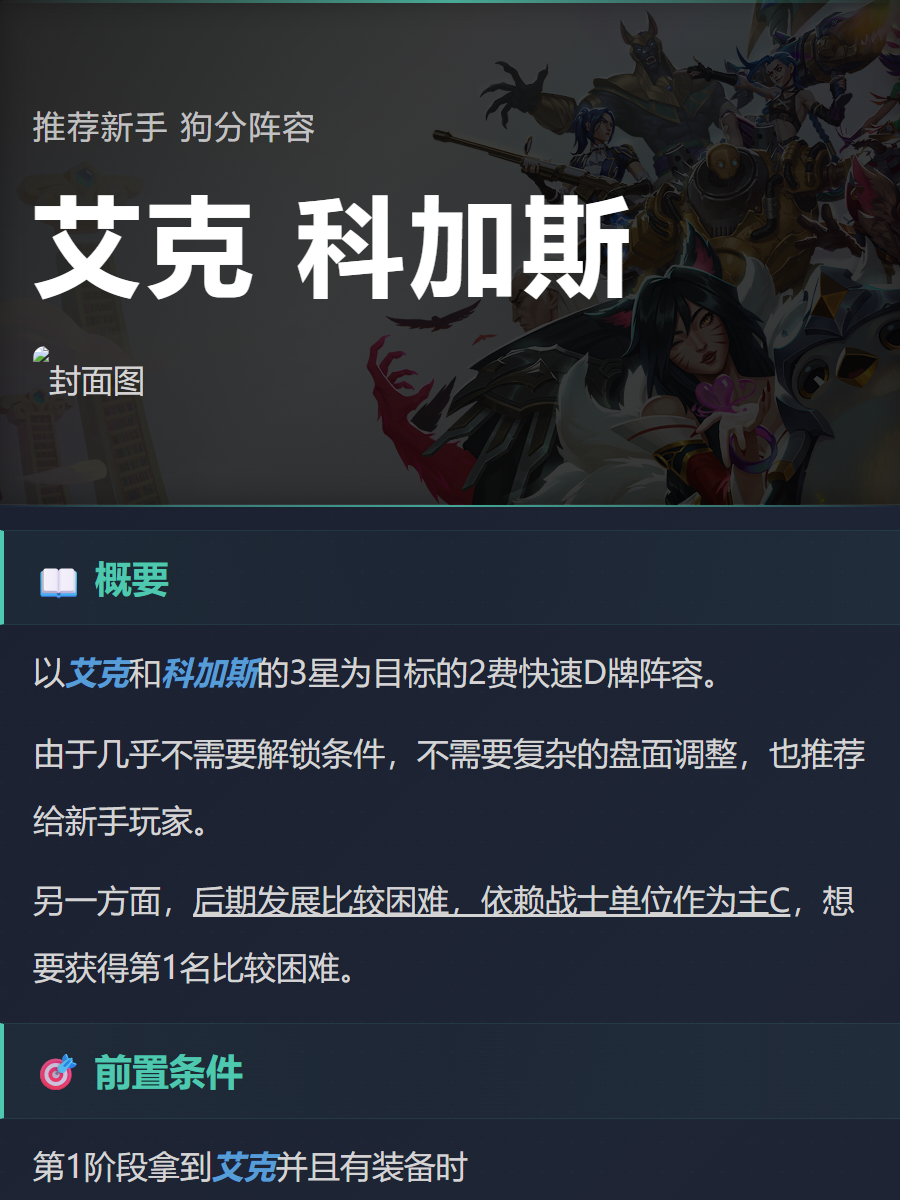
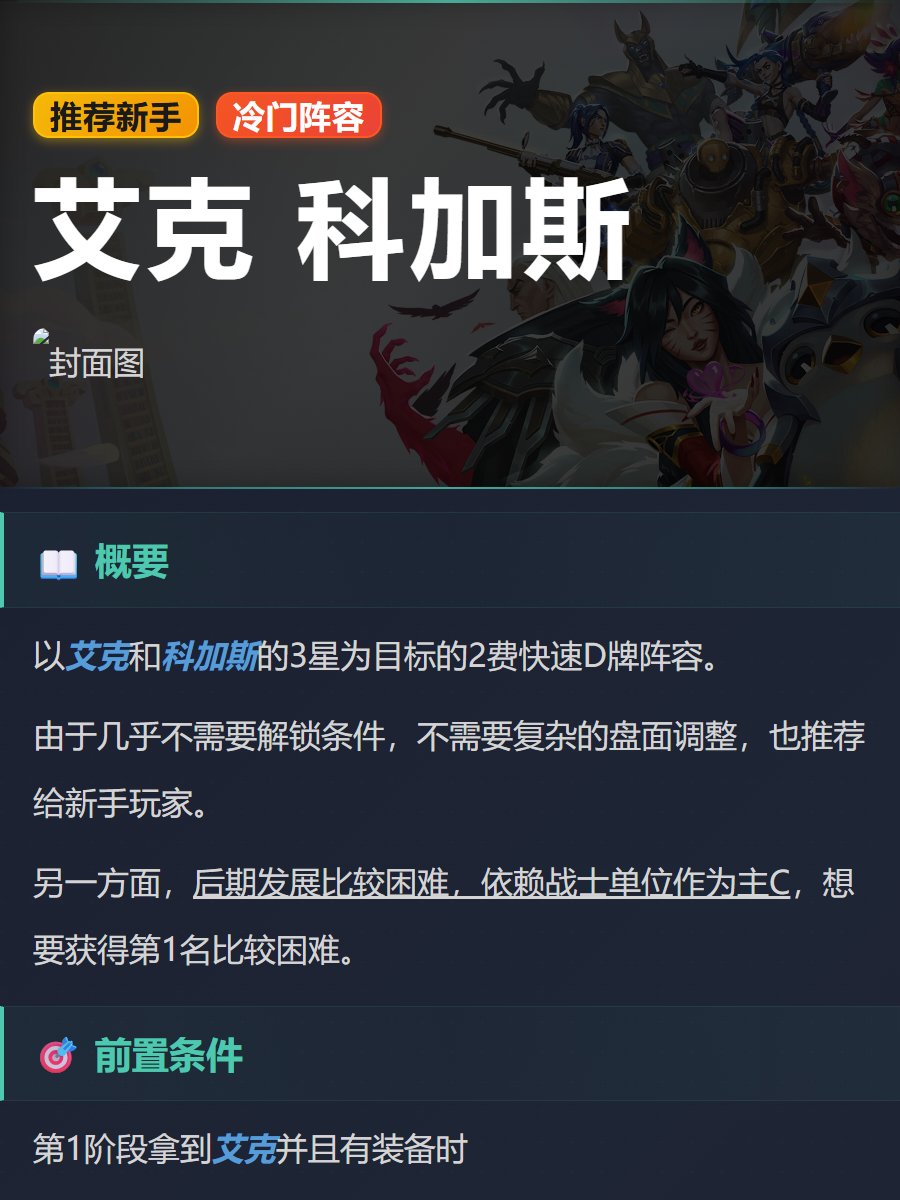
123

Changed region(s): [[0.0311, 0.0, 1.0, 0.8325], [0.0311, 0.8633, 0.5289, 0.9867], [0.0311, 0.2775, 0.1556, 0.3392]]

diff --git a/images/mdToImage.js b/images/mdToImage.js
@@ -182,14 +182,33 @@ function generateCSS(h1BackgroundImagePath = '') {
     ) 1;
   }
 
-  /* 赛季副标题 - 一级标题上方的小字 */
-  .season-subtitle {
+  /* 标签容器 - 一级标题上方的标签组 */
+  .tags-container {
+    display: flex;
+    flex-wrap: wrap;
+    gap: 17px;           /* 标签之间的间距 */
+    margin: 0 0 16px 0;  /* 下方留16px间距 */
+    align-items: center;
+  }
+
+  /* 单个标签样式 */
+  .tag {
+    display: inline-block;
     font-size: 32px;     /* 与正文相同大小 */
-    font-weight: 400;    /* 正常粗细 */
-    color: rgba(255, 255, 255, 0.7);  /* 半透明白色 */
-    margin: 0 0 13px 0;  /* 下方留13px间距 */
-    letter-spacing: 2px; /* 字间距 */
-    text-align: left;    /* 左对齐 */
+    font-weight: 600;    /* 半粗体 */
+    line-height: 1.2;    /* 覆盖全局line-height 2.1，使标签更紧凑 */
+    color: #1a1a1a;      /* 深色文字，对比度更高 */
+    background: linear-gradient(135deg,
+      rgba(255, 193, 7, 0.95) 0%,
+      rgba(255, 152, 0, 0.95) 100%
+    );
+    padding: 2px 15px;   /* 上下2px，左右15px */
+    border-radius: 16px; /* 圆角胶囊设计 */
+    border: 2px solid rgba(255, 193, 7, 1);  /* 金黄色边框 */
+    letter-spacing: 1px; /* 字间距 */
+    box-shadow: 0 3px 10px rgba(255, 193, 7, 0.4);   /* 金色发光效果 */
+    transition: all 0.3s ease;
+    vertical-align: middle; /* 垂直居中对齐 */
   }
 
   /* 一级标题 - 封面级别设计（带背景图） */
@@ -446,18 +465,19 @@ async function convertMdToImage(mdFilePath, outputPath) {
     // 读取Markdown文件
     let mdContent = fs.readFileSync(mdFilePath, 'utf-8');
 
-    // 提取副标题和封面图片（从HTML注释中）
-    const subtitleMatch = mdContent.match(/<!--\s*subtitle:\s*(.+?)\s*-->/);
+    // 提取标签和封面图片（从HTML注释中）
+    const tagsMatch = mdContent.match(/<!--\s*tags:\s*(.+?)\s*-->/);
     const coverMatch = mdContent.match(/<!--\s*cover:\s*(.+?)\s*-->/);
 
-    const subtitle = subtitleMatch ? subtitleMatch[1].trim() : null;
+    const tagsString = tagsMatch ? tagsMatch[1].trim() : null;
+    const tags = tagsString ? tagsString.split(',').map(tag => tag.trim()).filter(tag => tag) : [];
     const coverImagePath = coverMatch ? coverMatch[1].trim() : null;
 
-    console.log(`提取的副标题: ${subtitle || '无'}`);
+    console.log(`提取的标签: ${tags.length > 0 ? tags.join(', ') : '无'}`);
     console.log(`提取的封面图: ${coverImagePath || '无'}`);
 
     // 从markdown内容中移除这些注释，避免重复渲染
-    mdContent = mdContent.replace(/<!--\s*subtitle:\s*.+?\s*-->\s*/g, '');
+    mdContent = mdContent.replace(/<!--\s*tags:\s*.+?\s*-->\s*/g, '');
     mdContent = mdContent.replace(/<!--\s*cover:\s*.+?\s*-->\s*/g, '');
 
     // 获取Markdown文件所在目录（用于解析相对路径的图片）
@@ -469,9 +489,13 @@ async function convertMdToImage(mdFilePath, outputPath) {
     // 动态生成h1-container的内容
     let h1ContainerContent = '';
 
-    // 添加副标题（如果存在）
-    if (subtitle) {
-      h1ContainerContent += `<div class="season-subtitle">${subtitle}</div>`;
+    // 添加标签容器（如果存在标签）
+    if (tags.length > 0) {
+      h1ContainerContent += '<div class="tags-container">';
+      tags.forEach(tag => {
+        h1ContainerContent += `<span class="tag">${tag}</span>`;
+      });
+      h1ContainerContent += '</div>';
     }
 
     // 添加主标题（保留原有的h1标签）

diff --git a/docs/TFT_Guide_Translation_Rules.md b/docs/TFT_Guide_Translation_Rules.md
@@ -61,11 +61,15 @@
 
 #### 封面元数据（必需）
 ```markdown
-<!-- subtitle: S16赛季 快速上分神器 -->
+<!-- tags: 推荐新手, 上分阵容, 强力吃鸡 -->
 <!-- cover: comp_image.png -->
 # 阵容标题
 ```
-- **副标题格式**: `赛季信息 + 阵容特点`
+- **标签格式**: 使用逗号分隔多个标签，如：`推荐新手, 上分阵容, 强力吃鸡, 有趣好玩`
+- **标签示例**:
+  - 难度类：`推荐新手`, `适合进阶`, `高难度操作`
+  - 强度类：`上分阵容`, `强力吃鸡`, `版本答案`, `稳定前四`
+  - 特色类：`有趣好玩`, `冷门套路`, `翻盘神器`, `快速成型`
 - **封面图片**: 使用第一张有意义的阵容图（可选）
 - **位置要求**: 必须在一级标题之前
 

diff --git a/TFT.md b/TFT.md
@@ -1,4 +1,4 @@
-<!-- subtitle: 推荐新手 狗分阵容 -->
+<!-- tags: 推荐新手, 冷门阵容 -->
 <!-- cover: c:\Users\LiHaoJing\Downloads\dataTFT (16).png -->
 # 艾克 科加斯
 
